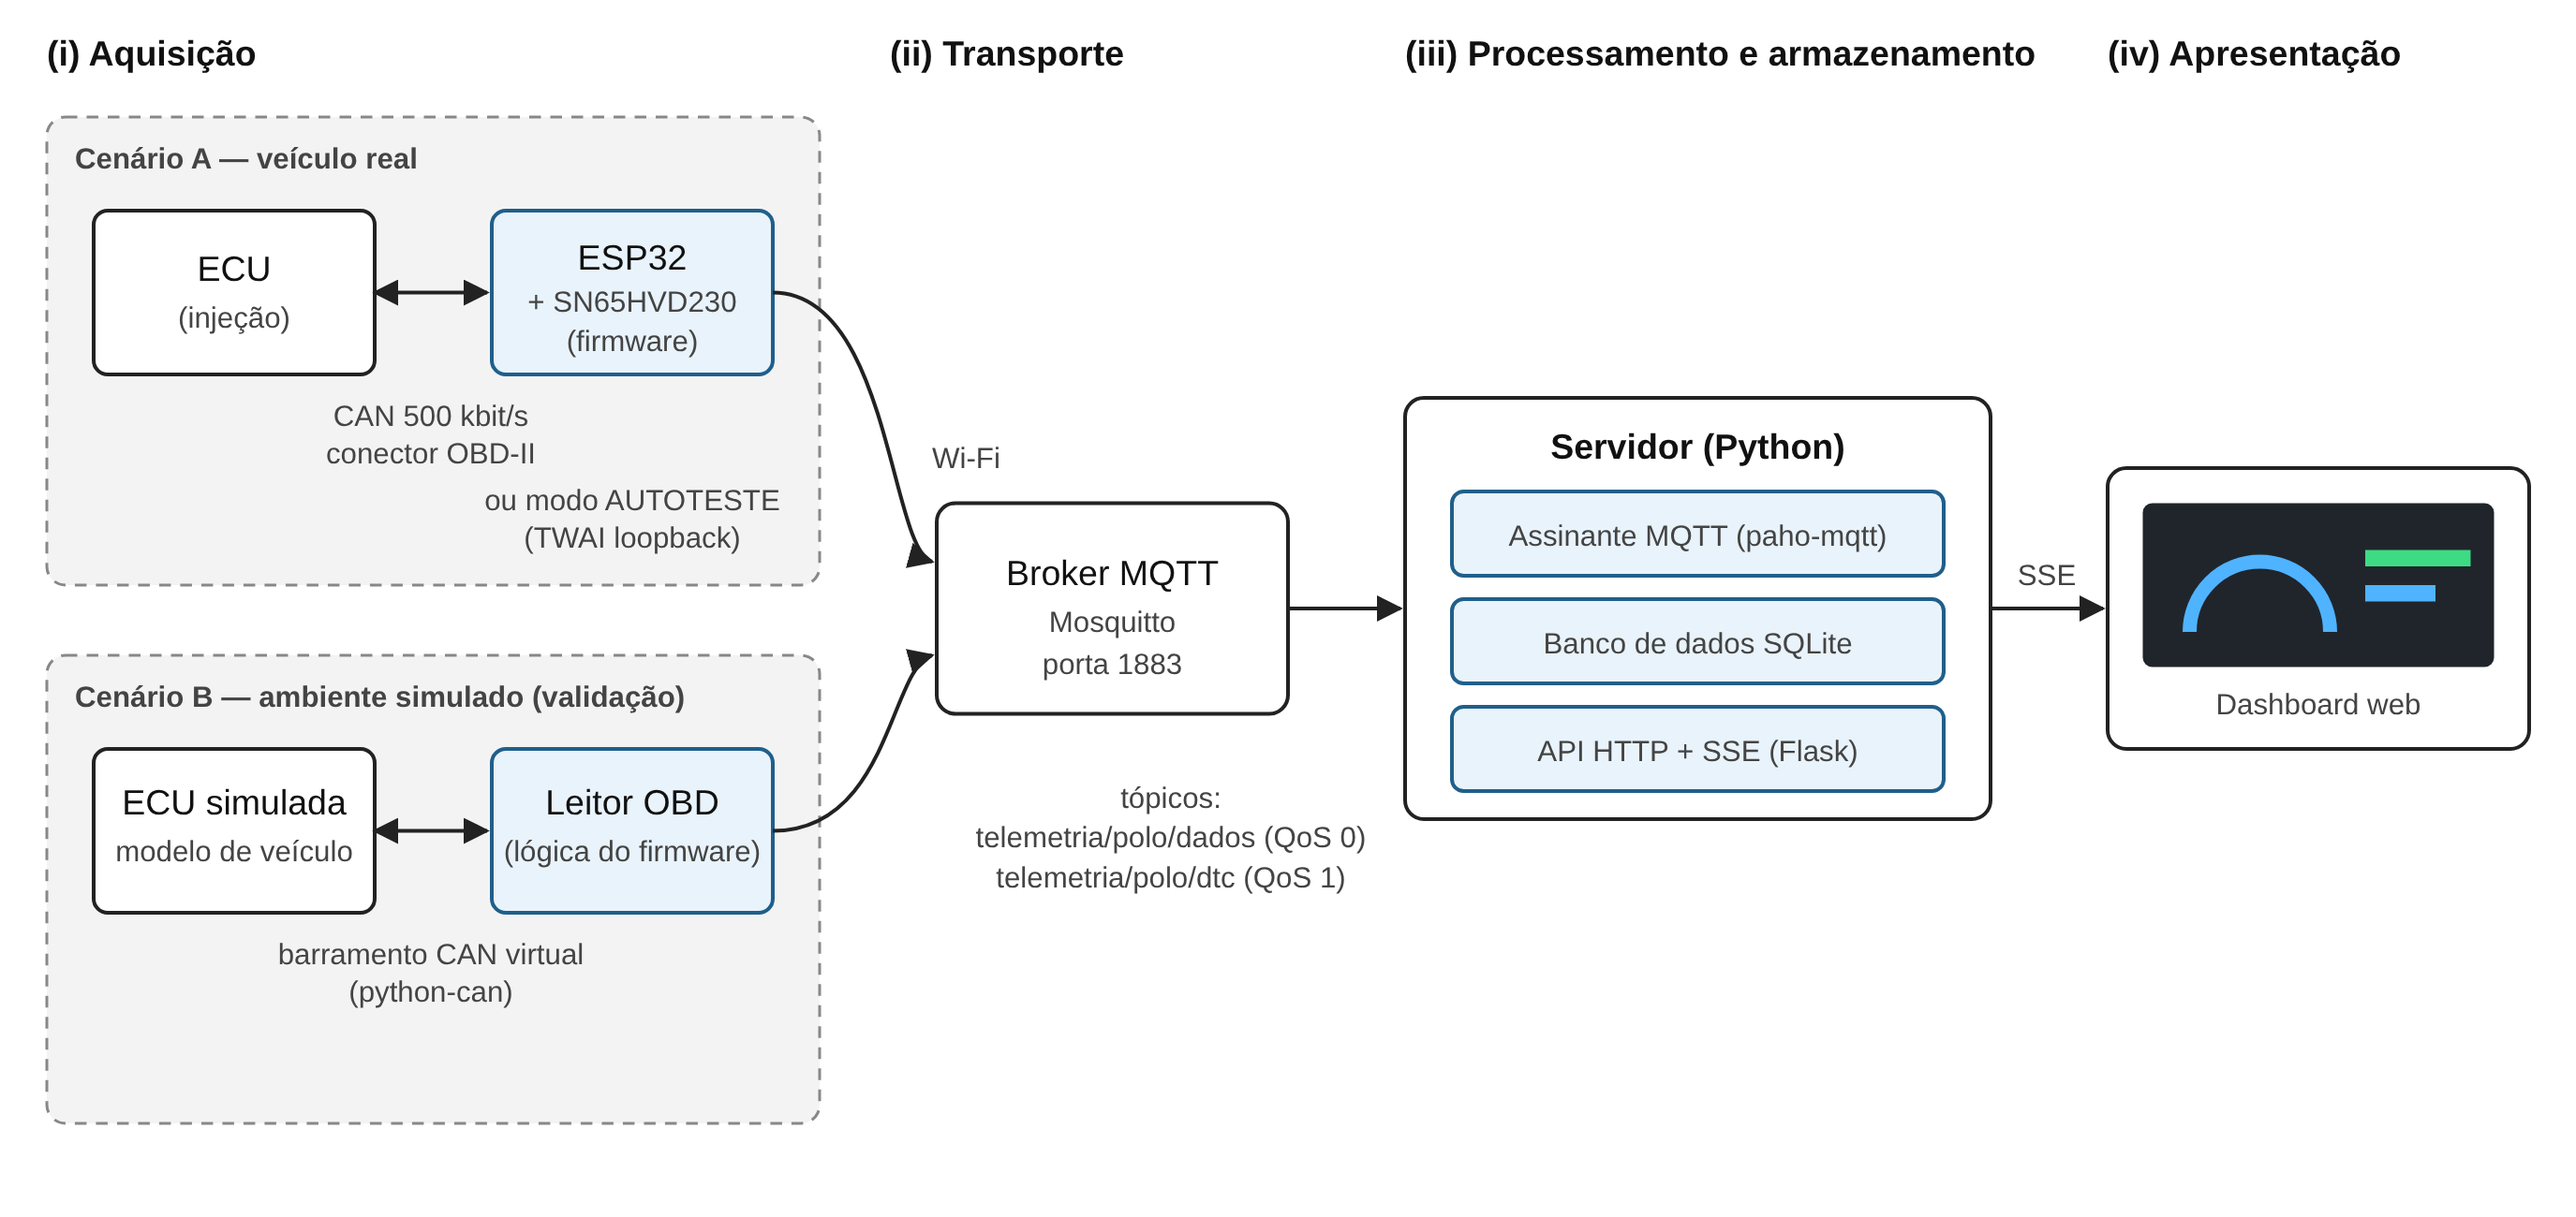
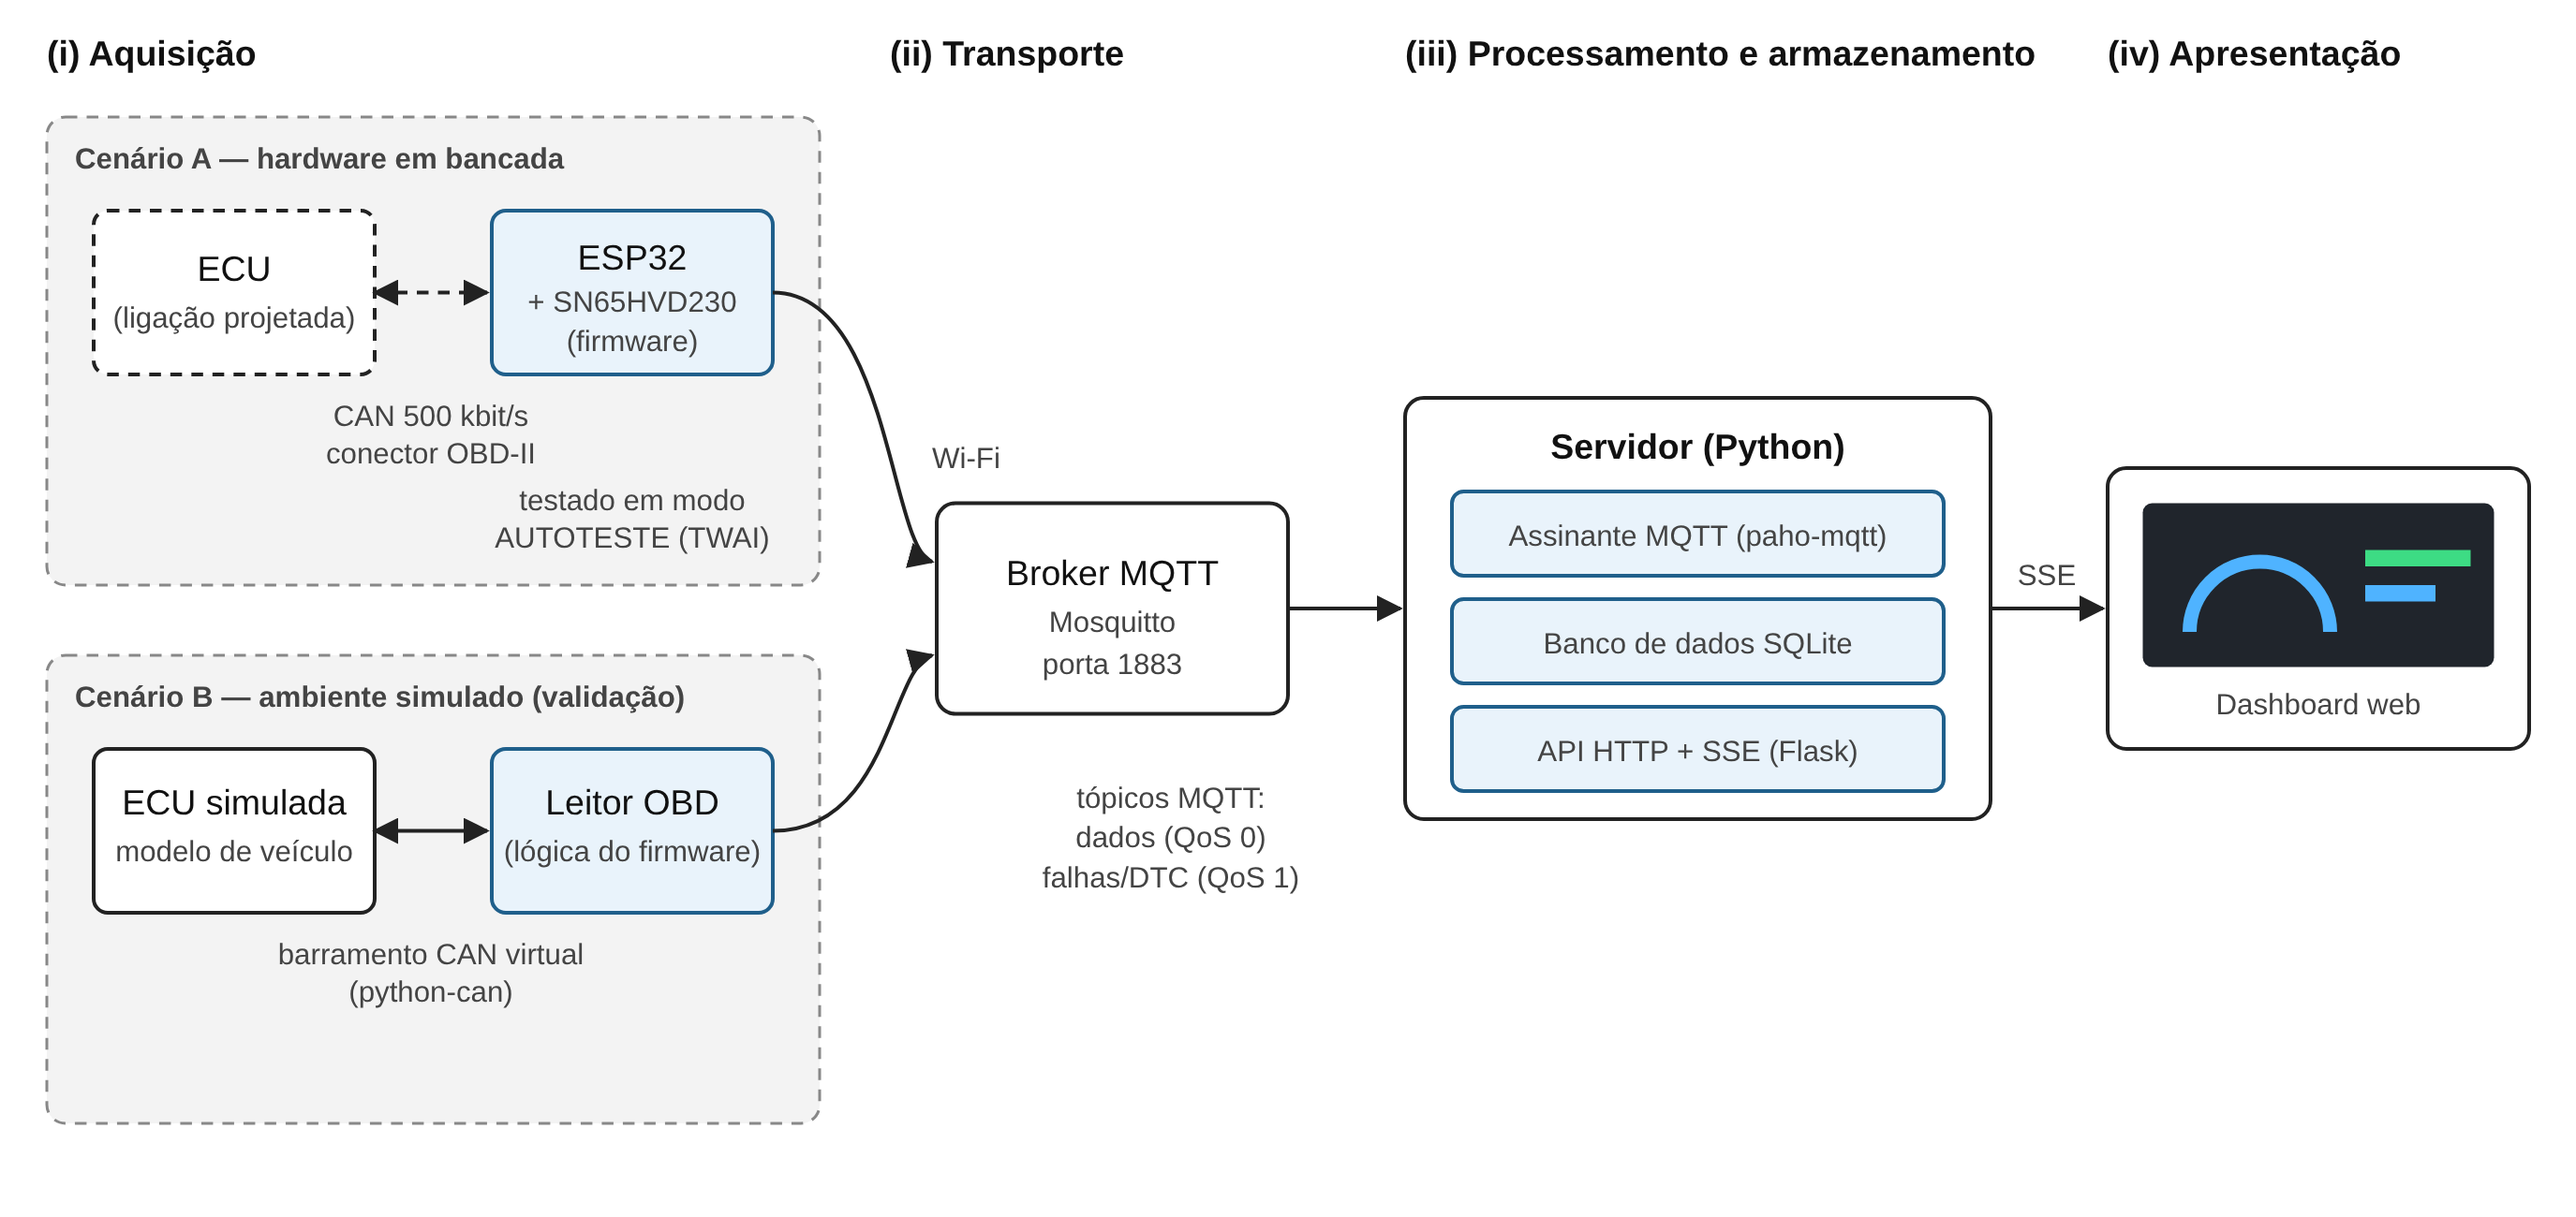
Atualiza README, figura da arquitetura e fotos da bancada
- README reescrito: como o sistema foi validado (simulação + bancada),
  principais resultados, tabela de ligações, teste do obd.h com g++,
  configuração do Mosquitto, limitações e como citar.
- Figura da arquitetura corrigida: o Cenário A passa a ser "hardware
  em bancada" (ligação com a ECU apenas projetada), igual ao TCC.
- Novas figuras: placa ESP32, SN65HVD230, montagem, Monitor Serial e
  dashboard recebendo dados do ESP32.
- Adiciona .gitignore (ignora banco SQLite e caches do Python).

Claude-Session: https://claude.ai/code/session_01TFjqm5PMAEyk5TgKQnoZ2T

diff --git a/figuras_src/diagramas.html b/figuras_src/diagramas.html
@@ -19,12 +19,12 @@
   <text x="900" y="28" class="t b">(iv) Apresentação</text>
 
   <rect x="20" y="50" width="330" height="200" rx="8" class="gr"/>
-  <text x="32" y="72" class="s b">Cenário A — veículo real</text>
-  <rect x="40" y="90" width="120" height="70" rx="6" class="cx"/><text x="100" y="120" text-anchor="middle" class="t">ECU</text><text x="100" y="140" text-anchor="middle" class="s">(injeção)</text>
+  <text x="32" y="72" class="s b">Cenário A — hardware em bancada</text>
+  <rect x="40" y="90" width="120" height="70" rx="6" class="cx" stroke-dasharray="5 4"/><text x="100" y="120" text-anchor="middle" class="t">ECU</text><text x="100" y="140" text-anchor="middle" class="s">(ligação projetada)</text>
   <rect x="210" y="90" width="120" height="70" rx="6" class="ac"/><text x="270" y="115" text-anchor="middle" class="t">ESP32</text><text x="270" y="133" text-anchor="middle" class="s">+ SN65HVD230</text><text x="270" y="150" text-anchor="middle" class="s">(firmware)</text>
-  <path d="M160 125 H208" class="l" marker-end="url(#m)" marker-start="url(#m)"/>
+  <path d="M160 125 H208" class="l" stroke-dasharray="5 4" marker-end="url(#m)" marker-start="url(#m)"/>
   <text x="184" y="182" text-anchor="middle" class="s">CAN 500 kbit/s</text><text x="184" y="198" text-anchor="middle" class="s">conector OBD-II</text>
-  <text x="270" y="218" text-anchor="middle" class="s">ou modo AUTOTESTE</text><text x="270" y="234" text-anchor="middle" class="s">(TWAI loopback)</text>
+  <text x="270" y="218" text-anchor="middle" class="s">testado em modo</text><text x="270" y="234" text-anchor="middle" class="s">AUTOTESTE (TWAI)</text>
 
   <rect x="20" y="280" width="330" height="200" rx="8" class="gr"/>
   <text x="32" y="302" class="s b">Cenário B — ambiente simulado (validação)</text>
@@ -39,9 +39,9 @@
   <path d="M330 125 C 380 125, 380 235, 398 240" class="l" marker-end="url(#m)"/>
   <path d="M330 355 C 380 355, 380 285, 398 280" class="l" marker-end="url(#m)"/>
   <text x="398" y="200" class="s" text-anchor="start">Wi-Fi</text>
-  <text x="500" y="345" text-anchor="middle" class="s">tópicos:</text>
-  <text x="500" y="362" text-anchor="middle" class="s">telemetria/polo/dados (QoS 0)</text>
-  <text x="500" y="379" text-anchor="middle" class="s">telemetria/polo/dtc (QoS 1)</text>
+  <text x="500" y="345" text-anchor="middle" class="s">tópicos MQTT:</text>
+  <text x="500" y="362" text-anchor="middle" class="s">dados (QoS 0)</text>
+  <text x="500" y="379" text-anchor="middle" class="s">falhas/DTC (QoS 1)</text>
 
   <!-- servidor -->
   <rect x="600" y="170" width="250" height="180" rx="8" class="cx"/>

diff --git a/README.md b/README.md
@@ -1,23 +1,56 @@
 # Telemetria e diagnóstico veicular de baixo custo com ESP32 e protocolo CAN
 
-Código-fonte e dados do Trabalho de Conclusão de Curso **"Telemetria e diagnóstico veicular de baixo custo com
-ESP32 e protocolo CAN: validação em ambiente simulado e em bancada"** — Engenharia da Computação,
-Centro Universitário IBMR (2026).
+Código-fonte, dados e figuras do Trabalho de Conclusão de Curso
+**"Telemetria e diagnóstico veicular de baixo custo com ESP32 e protocolo CAN: validação em ambiente simulado e em bancada"**
+— Engenharia da Computação, Centro Universitário IBMR (2026).
 
-Autores: Elias Borges Viana e Arthur Silva de Cerqueira · Orientador: Prof. Francisco José Rodrigues da Silva Junior
+**Autores:** Elias Borges Viana e Arthur Silva de Cerqueira · **Orientador:** Prof. Francisco José Rodrigues da Silva Junior
 
-O sistema lê parâmetros OBD-II (Modo 01) e códigos de falha (Modo 03) pelo barramento CAN (ISO 15765-4,
-500 kbit/s), publica os dados via MQTT, grava em SQLite e exibe em um dashboard web.
+O sistema lê parâmetros do motor (OBD-II, Modo 01) e códigos de falha (Modo 03) pelo barramento CAN
+(ISO 15765-4, 500 kbit/s, identificadores de 11 bits). Os dados são publicados via MQTT, gravados em SQLite e
+exibidos em tempo real em um dashboard web. A leitura usa o controlador CAN (TWAI) que já vem dentro do ESP32,
+ligado a um transceptor SN65HVD230, sem adaptadores ELM327 nem controladores CAN externos.
 
-## Estrutura
+![Dashboard recebendo os dados do ESP32 no ensaio em bancada](figuras/fig_dash_esp.png)
+
+## Como o sistema foi validado
+
+O trabalho foi validado em dois níveis. A validação em um veículo é a próxima etapa e **não** faz parte deste repositório.
+
+| Nível | O que roda | O que foi medido |
+|---|---|---|
+| **Ambiente simulado** (ensaios E1 a E4) | Uma ECU virtual em Python, que segue a ISO 15765-4, conversa com um leitor que reproduz a lógica do firmware por um barramento CAN virtual (python-can) | Erro de decodificação, tempo de resposta, taxa de atualização, latência MQTT e detecção de falhas |
+| **Bancada** (ensaio E5) | O firmware roda no ESP32 ligado ao SN65HVD230, em modo de autoteste do controlador CAN, e publica via Wi-Fi para o notebook | Funcionamento contínuo do hardware, tempo de ciclo, perdas de mensagens e leitura de falhas |
+
+Os parâmetros e as faixas de valores do modelo de simulação têm como referência um compacto 1.6 aspirado
+(Volkswagen Polo 1.6 2009/2010), com base em sua ficha técnica.
+
+![Arquitetura do sistema em quatro camadas](figuras/fig_arquitetura.png)
+
+## Principais resultados
+
+| Indicador | Resultado |
+|---|---|
+| Requisições no ensaio E1 (240 s, simulação) | 21.040, todas respondidas, sem perdas nem estouros de tempo |
+| Erro máximo de decodificação | 0,12 rpm (rotação), 0,50 °C (temperaturas), 0,20 p.p. (percentuais) — sempre ≤ metade da resolução da SAE J1979 |
+| Tempo médio de resposta por PID (simulação) | 11,31 ms |
+| Atualização dos 10 parâmetros (simulação) | 8,8 Hz (ciclo de 113,3 ms) |
+| Latência MQTT média (mesmo computador) | 0,64 ms |
+| Detecção da falha P0300 (E4, 30 injeções) | média de 0,88 s; mínimo de 0,002 s; máximo de 1,99 s |
+| Ciclo de 10 PIDs no ESP32 (E5, 60 min em bancada) | 6,48 ± 0,09 ms, sem nenhum timeout |
+| Mensagens entregues via Wi-Fi (E5, 60 min) | 98,1% — as perdas ficaram concentradas em duas desconexões da rede |
+
+## Estrutura do repositório
 
 ```
-firmware/telemetria_esp32/   firmware Arduino do ESP32 (controlador TWAI + SN65HVD230), modos AUTOTESTE e VEÍCULO
-firmware/teste_host/         teste do núcleo OBD do firmware no computador (g++)
-software/                    ECU simulada, leitor OBD, servidor (MQTT + SQLite + web), dashboard e scripts de ensaio
-resultados/simulacao/        dados brutos dos ensaios em ambiente simulado (E1, E2, E3 e E4)
-resultados/bancada_esp32/    dados do ensaio do firmware no ESP32 em bancada (janela de 5 min e ensaio de 60 min)
-figuras/                     figuras usadas no TCC
+firmware/telemetria_esp32/   firmware Arduino do ESP32 (TWAI + SN65HVD230), modos AUTOTESTE e VEÍCULO
+  ├─ telemetria_esp32.ino    driver CAN, Wi-Fi, NTP, MQTT e laço principal
+  └─ obd.h                   núcleo OBD-II sem dependência de hardware (fórmulas, quadros, ECU emulada)
+firmware/teste_host/         teste automatizado do obd.h no computador (g++): 10.010 casos
+software/                    ECU simulada, leitor OBD, servidor (MQTT + SQLite + web), dashboard e ensaios
+resultados/simulacao/        dados brutos dos ensaios E1 a E4
+resultados/bancada_esp32/    dados do ensaio E5 (janela de 306 s e ensaio de 60 min)
+figuras/                     figuras e fotos usadas no TCC
 figuras_src/                 fontes HTML/SVG dos diagramas
 ```
 
@@ -25,40 +58,81 @@ figuras_src/                 fontes HTML/SVG dos diagramas
 
 | Ensaio | Onde roda | Script | Arquivos |
 |---|---|---|---|
-| E1 – exatidão, tempos e latência (240 s) | simulação (python-can) | `software/experimentos.py` | `resultados/simulacao/e1_*.csv`, `resultados.json` |
+| V – verificação do núcleo do firmware | computador (g++) | `firmware/teste_host/teste_obd.cpp` | saída no terminal |
+| E1 – exatidão, tempos e latência (240 s) | simulação | `software/experimentos.py` | `resultados/simulacao/e1_*.csv`, `resultados.json` |
 | E2 – sensibilidade ao tempo de resposta da ECU | simulação | `software/experimentos.py` | `resultados.json` (chave `E2`) |
-| E3 – escalabilidade pelo nº de PIDs | simulação | `software/experimentos.py` | `resultados.json` (chave `E3`) |
+| E3 – escalabilidade pelo número de PIDs | simulação | `software/experimentos.py` | `resultados.json` (chave `E3`) |
 | E4 – tempo de detecção de falha (30 repetições) | simulação | `software/ensaio_dtc.py` | `resultados/simulacao/e4_dtc.csv` |
 | E5 – firmware no ESP32 em bancada (autoteste) | ESP32 + SN65HVD230 + Wi-Fi | `firmware/telemetria_esp32` + `software/servidor.py` | `resultados/bancada_esp32/*.csv`, `esp32_resumo.json` |
 
-Os gráficos são gerados com `python software/graficos.py`.
+Os gráficos do TCC são gerados com `python software/graficos.py`.
 
 ## 1. Simulação completa no computador (sem ESP32)
 
-1. Instale Python 3.10+ e o broker [Mosquitto](https://mosquitto.org/download/).
-2. `pip install -r software/requirements.txt`
-3. Dentro de `software/`, em terminais separados:
+1. Instale o Python 3.10 ou mais novo e o broker [Mosquitto](https://mosquitto.org/download/).
+2. Instale as dependências: `pip install -r software/requirements.txt`
+3. Dentro da pasta `software/`, abra três terminais:
    ```
    mosquitto -v
    python servidor.py                                  # dashboard em http://localhost:5000
-   python simulacao.py --dtc P0300 --dtc-em 30
+   python simulacao.py --dtc P0300 --dtc-em 30         # ECU simulada + leitor; injeta a falha aos 30 s
    ```
-4. Para repetir os ensaios: `python experimentos.py` (≈ 8 min), `python ensaio_dtc.py` (≈ 5 min) e `python graficos.py`.
+4. Para repetir os ensaios: `python experimentos.py` (cerca de 8 min), `python ensaio_dtc.py` (cerca de 5 min) e `python graficos.py`.
+
+Para conferir o núcleo do firmware no computador:
+```
+g++ -std=c++17 -I firmware/telemetria_esp32 firmware/teste_host/teste_obd.cpp -o teste_obd && ./teste_obd
+```
 
 ## 2. ESP32 em modo AUTOTESTE (bancada, sem veículo)
 
-1. Arduino IDE com o núcleo **esp32 by Espressif** (testado na versão 3.3.12) e a biblioteca **PubSubClient** 2.8.
-2. Ligações: GPIO5 → CTX, GPIO4 → CRX, 3V3 → VCC, GND → GND do SN65HVD230.
-3. Em `telemetria_esp32.ino`: `#define MODO_AUTOTESTE 1`, preencha `WIFI_SSID`, `WIFI_SENHA` (rede 2,4 GHz) e
-   `MQTT_BROKER` (IP do computador com o Mosquitto). No Mosquitto 2.x, para aceitar conexões da rede, inclua
-   `listener 1883` e `allow_anonymous true` no `mosquitto.conf`.
-4. Grave a placa, abra o Monitor Serial (115200 baud) e rode `python servidor.py`: os dados aparecem no mesmo dashboard.
+![Montagem em bancada: ESP32 DevKit ligado ao SN65HVD230](figuras/fig_montagem.jpg)
+
+1. Na Arduino IDE, instale o núcleo **esp32 by Espressif** (testado na versão 3.3.12) e a biblioteca **PubSubClient** 2.8.
+2. Faça as ligações:
+
+   | ESP32 | SN65HVD230 |
+   |---|---|
+   | GPIO5 | CTX |
+   | GPIO4 | CRX |
+   | 3V3 | 3V3 |
+   | GND | GND |
+
+3. Em `telemetria_esp32.ino`, deixe `#define MODO_AUTOTESTE 1` e preencha `WIFI_SSID`, `WIFI_SENHA` (rede de 2,4 GHz)
+   e `MQTT_BROKER` (IP do computador que roda o Mosquitto). **Não publique a sua senha do Wi-Fi.**
+4. No Mosquitto 2.x, para aceitar conexões da rede, acrescente ao `mosquitto.conf`:
+   ```
+   listener 1883
+   allow_anonymous true
+   ```
+   No Windows, libere também a porta 1883 no firewall.
+5. Grave a placa, abra o Monitor Serial (115200 baud) e rode `python servidor.py`. Os dados aparecem no mesmo dashboard.
+
+No modo autoteste, o controlador TWAI opera sem confirmação de outro nó e recebe os próprios quadros, e o firmware
+responde como uma ECU emulada. A falha P0300 aparece 30 s após a inicialização.
+
+![Monitor Serial do ESP32 em modo autoteste](figuras/fig_serial.png)
 
 ## 3. Uso em veículo (modo VEÍCULO)
 
-`#define MODO_AUTOTESTE 0`; CANH → pino 6, CANL → pino 14 e GND → pinos 4/5 do conector OBD-II. O veículo precisa
-usar diagnóstico sobre CAN (ISO 15765-4, 500 kbit/s, 11 bits). Esse modo foi implementado e compilado, mas não foi
-validado em veículo neste trabalho.
+Use `#define MODO_AUTOTESTE 0` e ligue CANH ao pino 6, CANL ao pino 14 e GND aos pinos 4 e 5 do conector OBD-II.
+O veículo precisa usar diagnóstico sobre CAN (ISO 15765-4, 500 kbit/s, 11 bits). Para uso no carro, a alimentação
+pelo pino 16 (+12 V) exige regulador step-down, proteção contra inversão de polaridade e supressão de transientes,
+e o resistor de terminação de 120 Ω do módulo deve ser retirado.
+
+> Esse modo foi implementado e compilado, mas **não foi validado em veículo** neste trabalho.
+
+## Limitações conhecidas
+
+- As mensagens são publicadas com QoS 0 e não ficam guardadas durante uma desconexão do Wi-Fi.
+- Só respostas em quadro único são tratadas (Modos 01 e 03 com até dois DTCs); mensagens longas, como o VIN (Modo 09), exigem ISO-TP completo.
+- O firmware não consulta antes os PIDs suportados pelo veículo (PID 0x00).
+- No ensaio em bancada, a latência não foi medida em valor absoluto, por diferença entre os relógios do ESP32 (NTP) e do computador.
+
+## Como citar
+
+VIANA, E. B.; CERQUEIRA, A. S. de. **Telemetria OBD-II com ESP32, CAN e MQTT**: código-fonte e dados do trabalho
+de conclusão de curso. [S. l.]: GitHub, 2026. Disponível em: https://github.com/eliasbr14-cell/telemetria-obd-esp32.
 
 ## Licença
 
